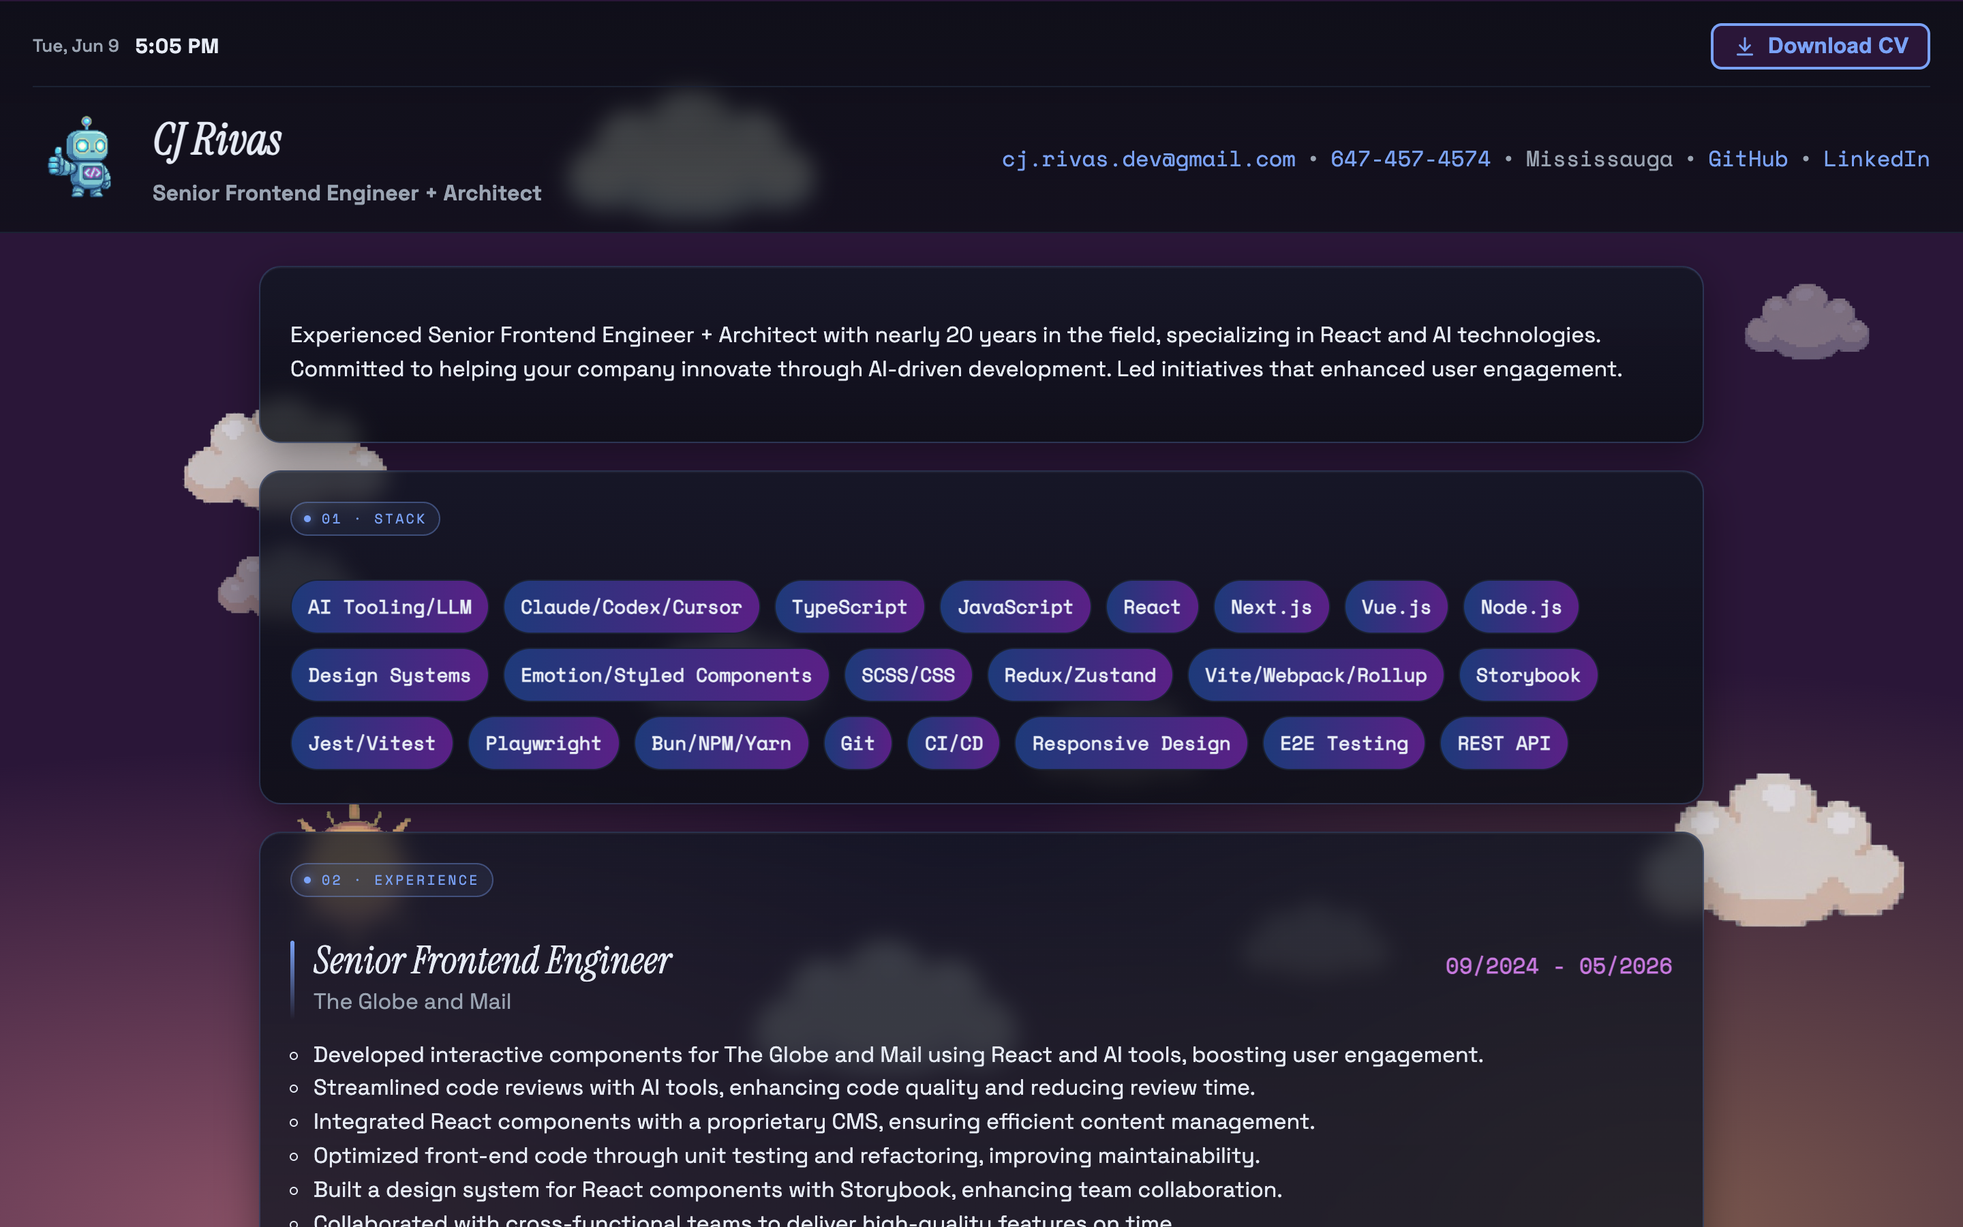
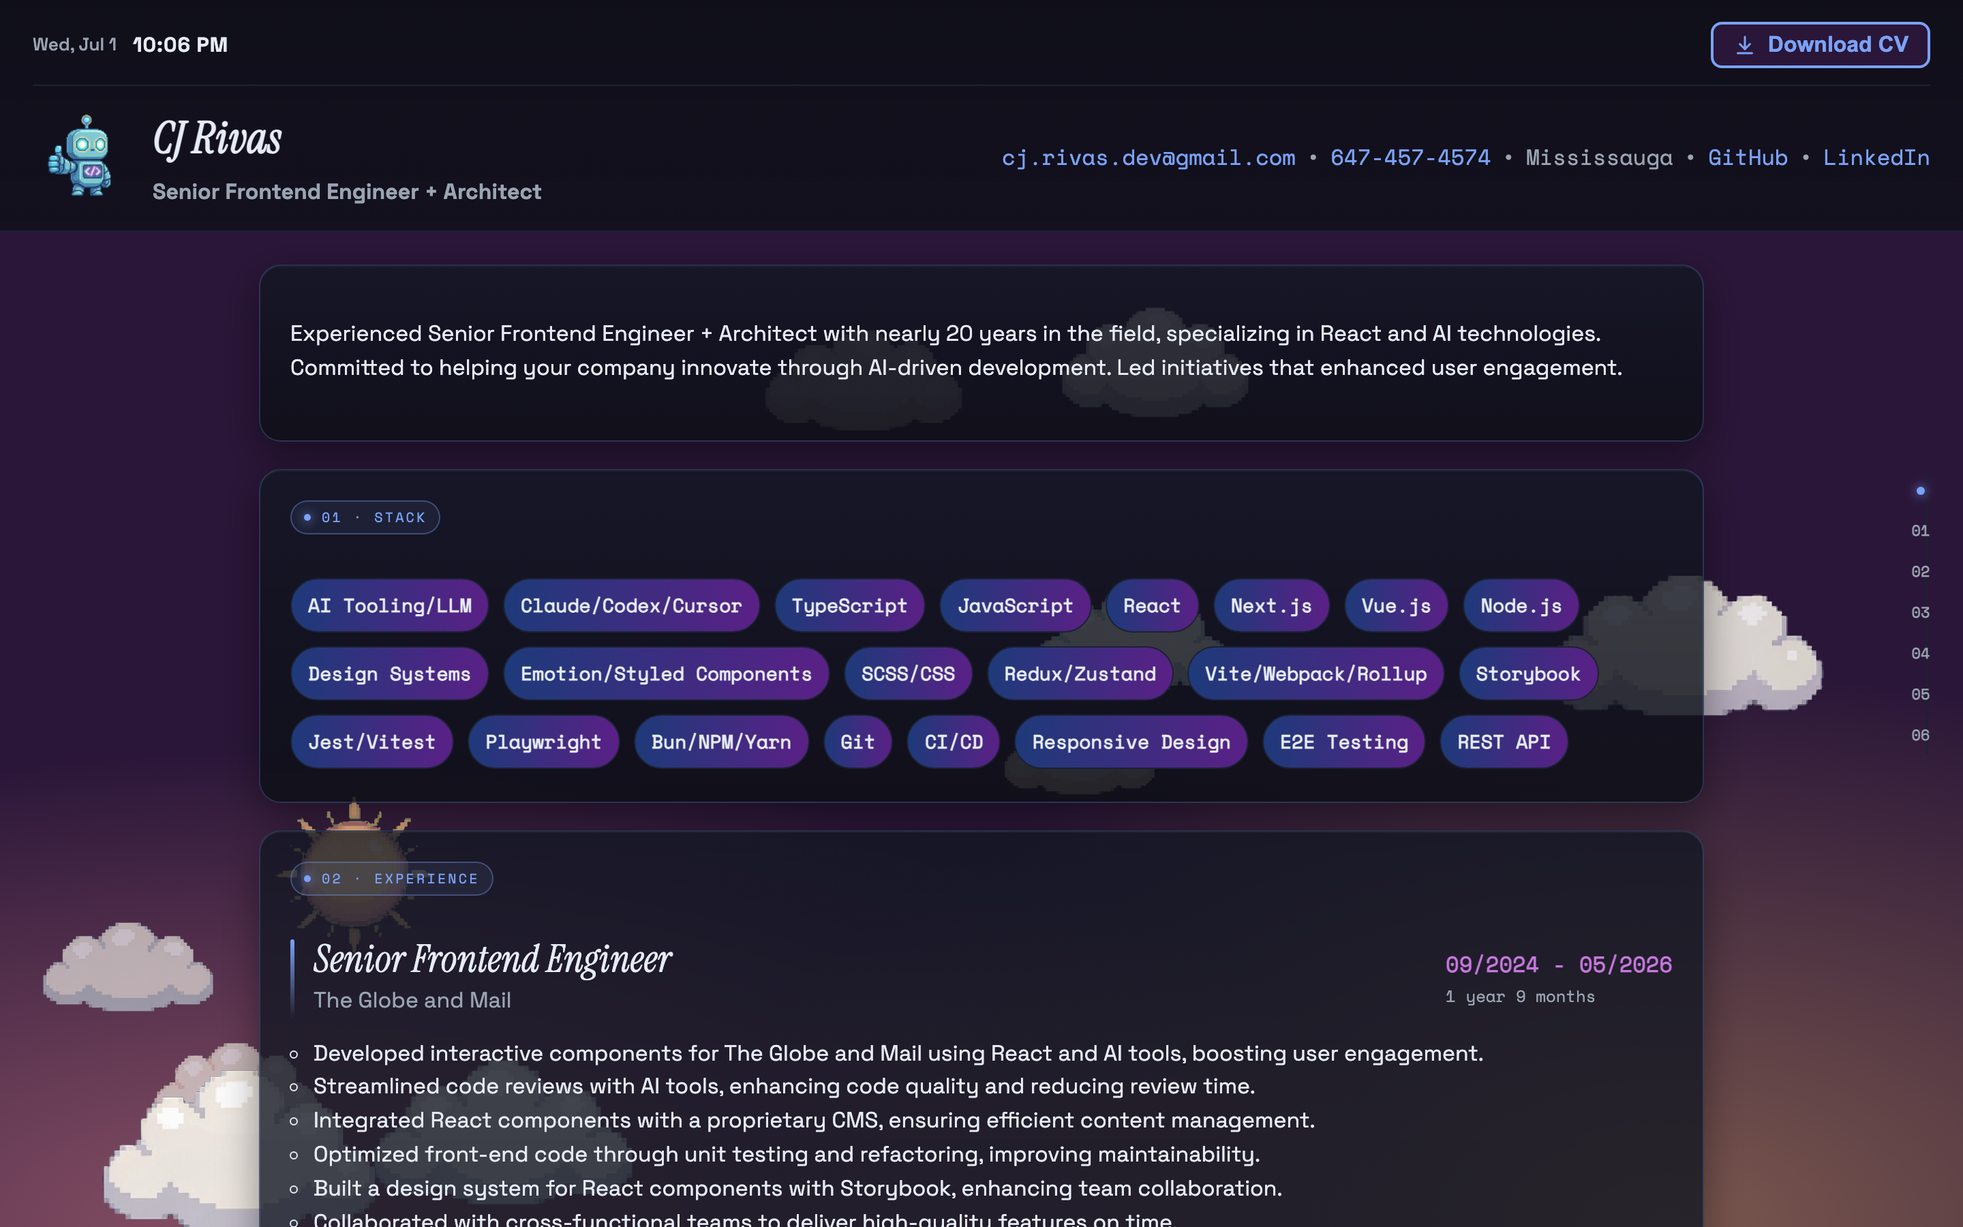
CJR: refresh `README.md` and screenshots for current architecture
- document `SectionNav`, `Selected Work` showcase, and `/edit-resume` editor with variations
- rewrite PDF export section for `@react-pdf/renderer` pipeline (was `html2pdf.js`)
- add `@dnd-kit`, `@fontsource`, `@react-pdf/renderer` rows to tech stack table
- redraw `src/` tree with `edit/`, `pdf/`, `state/useVariations.ts`, new `utils/` entries
- drop stale `skillDescriptions.ts` references; note `skill_descriptions` array in `resume.json`
- add `@edit/*` and `@pdf/*` path aliases; add `/edit-resume` demo URL
- correct pre-commit hook steps to `prettier:check` → `ts:check` → `lint` → `test`
- correct `system-check` order to `prettier:check` → `ts:check` → `lint` → `test` → `build`
- regenerate all `docs/screenshots/*.png` against current build
- add `docs/screenshots/edit-resume.png` capture of the editor

diff --git a/README.md b/README.md
@@ -1,6 +1,6 @@
 # CJ Rivas — Portfolio
 
-> A single-page resume & portfolio for a Senior Frontend Engineer + Architect. Built as a showcase of modern React patterns, with a living, time-of-day sky and a live weather overlay driven by the visitor's location.
+> A single-page resume & portfolio for a Senior Frontend Engineer + Architect. Built as a showcase of modern React patterns, with a living, time-of-day sky, a live weather overlay driven by the visitor's location, a native PDF export pipeline, and a full drag-and-drop resume editor with saved variations.
 
 ![CJ Rivas portfolio at day](docs/screenshots/hero-day.png)
 
@@ -44,15 +44,36 @@ A live indicator shows the current local date, time, weather emoji, and temperat
 - The `AppHeader` uses `IntersectionObserver` on a sentinel `<div>` to detect when it sticks to the top of the viewport, then `data-stuck` triggers a compact layout (smaller logo + title, tightened spacing).
 - Clock ticks once per minute via `setInterval`, weather fetched once per session.
 
+### Section navigation
+
+A floating nav tracks scroll position via `IntersectionObserver` and highlights the section currently in view, with numbered chips mirroring the sections mounted in `App.tsx`. Clicking a link smooth-scrolls to the section (instant if `prefers-reduced-motion` is set).
+
+### Selected Work showcase
+
+A grid of project cards (browser-chrome framing, screenshot, domain badge, role, period, description, tag pills) linking out to live projects — sourced from the `showcase` array in `resume.json`.
+
 ### One-click PDF export
 
-A "Download CV" button rasterizes the resume to a single, full-height PDF — using `html2pdf.js` with a custom `waitForAssets` utility that resolves once every image and webfont is decoded, so the PDF never captures half-loaded state.
+A "Download CV" button generates a single-page PDF entirely client-side using [`@react-pdf/renderer`](https://react-pdf.org): `src/pdf/ResumePDF.tsx` mirrors the on-page layout with a dedicated set of design tokens (`src/pdf/tokens.ts`), and `src/pdf/fonts.ts` embeds Source Serif 4 (regular/italic/semibold/bold) via `Font.register` so the PDF's typography matches the page. `@react-pdf/renderer` and its `fontkit` dependency are dynamically imported (`import("@pdf")`) so they never ship in the main bundle — only users who click download (or generate a PDF from the editor) pay for that chunk.
+
+### Resume editor & variations
+
+![resume editor](docs/screenshots/edit-resume.png)
+
+Visiting `/edit-resume` mounts the same component tree in an editing context (`EditProvider`) instead of the read-only page:
+
+- Every text field becomes an inline, auto-growing `<input>`/`<textarea>` (`EditableText`) that writes straight to the Zustand store via a generic `setPath(path, value)`.
+- Lists — skills, achievements, showcase items, tags — get add/remove buttons and drag-to-reorder handles powered by `@dnd-kit`. The drag machinery is lazy-loaded (`SortableListImpl`) so the public-facing page never downloads it.
+- A **Variations** side panel lets you fork the base resume into named, independently-editable copies persisted to `localStorage` (Zustand `persist` middleware, `src/state/useVariations.ts`). Switch between "Base (original)" and any saved variation, rename or delete variations, and an unsaved-changes guard (`beforeunload`) warns before you navigate away with a dirty edit.
+- "Generate PDF" produces a PDF scoped to whichever variation is currently active, with the filename slugified from the variation's name (e.g. `cj_rivas_backend_leaning.pdf`).
 
 ### Data-driven content
 
-The entire resume — name, contact, summary, skills, work history, awards, languages, education — is hydrated from a single `src/data/resume.json` file at module load. Adding a new section is: extend the JSON → add a type → extend the Zustand store → mount a component. No mutations, no async fetch, no setters.
+The entire resume — name, contact, summary, skills (+ per-skill hover text), work history, awards, languages, education, showcase — is hydrated from a single `src/data/resume.json` file at module load and normalized through `normalizeData()` (which migrates older/legacy data shapes, e.g. a pre-array `contact` object, so saved variations never break after a schema change). Adding a new section is: extend the JSON → add a type → extend the Zustand store → mount a component.
 
-Hover tooltips on each Technical Skills pill are sourced from `src/data/skillDescriptions.ts` — a separate keyed lookup so the resume JSON stays focused on the skill list itself.
+Hover tooltips on each Technical Skills pill come from the `skill_descriptions` array in `resume.json`, kept in parallel with `technical_skills` (and reordered/edited together in the editor).
+
+Each work experience entry also shows a computed, human-readable duration (e.g. "1 year 9 months") derived from its `period` string by `src/utils/experienceDuration.ts`.
 
 ---
 
@@ -69,20 +90,22 @@ Hover tooltips on each Technical Skills pill are sourced from `src/data/skillDes
 
 ## Tech stack
 
-| Layer               | Choice                             | Why                                                                        |
-| ------------------- | ---------------------------------- | -------------------------------------------------------------------------- |
-| **Build / dev**     | Vite 8                             | Instant HMR, native ESM, fast cold starts                                  |
-| **UI framework**    | React 19 + TypeScript 6            | `useId`, automatic batching, modern types                                  |
-| **State**           | Zustand 5                          | Tiny, no boilerplate, store seeded from JSON at module load                |
-| **Styling**         | CSS Modules + design tokens        | Scoped class names, no runtime, readable in DevTools (`Header_logo__a3f2`) |
-| **PDF export**      | `html2pdf.js`                      | DOM → canvas → jsPDF pipeline; runs entirely client-side                   |
-| **Weather data**    | Open-Meteo (free, no key)          | WMO weather codes via `current_weather`                                    |
-| **Testing**         | Vitest 4 + Testing Library + jsdom | Component + util tests colocated next to source                            |
-| **Lint / format**   | ESLint 9 (flat config) + Prettier  | `@trivago/prettier-plugin-sort-imports` enforces import groups             |
-| **Type checking**   | `tsc --noEmit`                     | Runs on every commit                                                       |
-| **Git hooks**       | Husky                              | `pre-commit`: ts:check → prettier → lint → build                           |
-| **Package manager** | Bun                                | `packageManager` field pinned in `package.json`                            |
-| **Deploy**          | Netlify                            | Project: [`codebend3r`](https://app.netlify.com/projects/codebend3r)       |
+| Layer               | Choice                                            | Why                                                                                               |
+| ------------------- | ------------------------------------------------- | ------------------------------------------------------------------------------------------------- |
+| **Build / dev**     | Vite 8                                            | Instant HMR, native ESM, fast cold starts                                                         |
+| **UI framework**    | React 19 + TypeScript 6                           | `useId`, automatic batching, modern types                                                         |
+| **State**           | Zustand 5                                         | Tiny, no boilerplate; resume store seeded from JSON, variations store persisted to `localStorage` |
+| **Styling**         | CSS Modules + design tokens                       | Scoped class names, no runtime, readable in DevTools (`Header_logo__a3f2`)                        |
+| **PDF export**      | `@react-pdf/renderer`                             | Declarative React → PDF, embedded webfonts, runs entirely client-side, lazy-loaded chunk          |
+| **Drag & drop**     | `@dnd-kit/core` + `sortable` + `utilities`        | Accessible reordering in the resume editor; lazy-loaded, absent from the public page              |
+| **Webfonts**        | `@fontsource/inter`, `@fontsource/source-serif-4` | Self-hosted, no external font requests; Source Serif 4 double-embedded for PDF output             |
+| **Weather data**    | Open-Meteo (free, no key)                         | WMO weather codes via `current_weather`                                                           |
+| **Testing**         | Vitest 4 + Testing Library + jsdom                | Component + util tests colocated next to source                                                   |
+| **Lint / format**   | ESLint 9 (flat config) + Prettier                 | `@trivago/prettier-plugin-sort-imports` enforces import groups                                    |
+| **Type checking**   | `tsc --noEmit`                                    | Runs on every commit                                                                              |
+| **Git hooks**       | Husky                                             | `pre-commit`: prettier check → ts:check → lint → test                                             |
+| **Package manager** | Bun                                               | `packageManager` field pinned in `package.json`                                                   |
+| **Deploy**          | Netlify                                           | Project: [`codebend3r`](https://app.netlify.com/projects/codebend3r)                              |
 
 ---
 
@@ -90,41 +113,61 @@ Hover tooltips on each Technical Skills pill are sourced from `src/data/skillDes
 
 ```
 src/
-├── App.tsx                  ← Composes Sky + Weather + AppHeader + sections; owns PDF download flow
-├── Entry.tsx                ← React root, mounts global styles + applies sky palette
-├── components/              ← Flat directory — each component is a .tsx + .module.css + .test.tsx triple
+├── App.tsx                  ← Composes Sky + Weather + SectionNav + AppHeader + read-only sections
+├── Entry.tsx                ← React root; routes "/edit-resume" → <EditResumeApp />, else <App />
+├── components/              ← Flat directory — each component is a .tsx + .module.css (+ .test.tsx) triple
 │   ├── AppHeader.tsx        ← Sticky-on-scroll wrapper; mounts <Header /> + <WeatherClock /> + Download CV button
 │   ├── Header.tsx           ← Identity + contact line (email, phone, location, GitHub, LinkedIn)
+│   ├── SectionNav.tsx       ← Floating nav; highlights active section via IntersectionObserver
 │   ├── Sky.tsx              ← Time-of-day clouds, sun, moon (PNG sprite); swaps to <Starfield /> at night
 │   ├── Starfield.tsx        ← Parallax 3-layer night sky (160 + 80 + 30 stars)
 │   ├── Weather.tsx          ← Rain (140 drops) / snow (90 flakes) overlay; pure CSS animation
 │   ├── WeatherClock.tsx     ← Live clock + weather emoji + temperature (ticks every minute)
 │   ├── Section.tsx          ← Shared <section> + <h2> wrapper used by all content sections
-│   ├── Summary.tsx  TechnicalSkills.tsx  WorkExperience.tsx
+│   ├── Summary.tsx  TechnicalSkills.tsx  WorkExperience.tsx  Showcase.tsx
 │   ├── Awards.tsx  Languages.tsx  Education.tsx  Footer.tsx
+├── edit/                    ← Resume editor, mounted only at /edit-resume
+│   ├── EditResumeApp.tsx    ← Renders the resume tree inside EditProvider; owns variation/session state
+│   ├── EditContext.tsx      ← `editing` flag + `markDirty()`, consumed by every section component
+│   ├── EditableText.tsx     ← Inline auto-growing input/textarea bound to a store path
+│   ├── VariationsPanel.tsx  ← Create/rename/delete/select variations; Save + Generate PDF actions
+│   ├── RenameModal.tsx      ← Portal-rendered modal for naming/renaming a variation
+│   ├── SortableList.tsx     ← Public wrapper; lazy-loads dnd-kit only when editing
+│   ├── SortableListImpl.tsx ← Actual @dnd-kit sortable context (lazy chunk)
+│   └── sortableContext.ts   ← Context bridging the lazy dnd-kit implementation into SortableItem
+├── pdf/                     ← @react-pdf/renderer document, lazy-loaded via `import("@pdf")`
+│   ├── generatePdf.tsx      ← generateResumePdf(data) → Blob; downloadBlob() triggers the browser download
+│   ├── ResumePDF.tsx        ← React-PDF document mirroring the on-page resume layout
+│   ├── fonts.ts             ← Registers Source Serif 4 weights/styles for @react-pdf/renderer
+│   ├── styles.ts            ← @react-pdf/renderer StyleSheet definitions
+│   ├── tokens.ts             ← PDF-specific design tokens (fonts, spacing, colors)
+│   └── index.ts              ← Barrel re-exporting generatePdf's public API
 ├── data/
-│   ├── resume.json          ← Single source of truth for resume content
-│   ├── skillDescriptions.ts ← Per-skill tooltip copy keyed by skill name
+│   ├── resume.json          ← Single source of truth for resume content (incl. showcase, skill_descriptions)
 │   └── CJ Rivas - Senior Frontend Engineer.pdf  ← Pre-rendered CV (also produced live via Download CV)
-├── state/useStore.ts        ← Zustand store, seeded from resume.json at module init
+├── state/
+│   ├── useStore.ts          ← Zustand store, seeded from resume.json; setPath/reorder + add/remove actions
+│   └── useVariations.ts     ← Zustand store (persisted to localStorage) for named resume variations
 ├── styles/
 │   ├── tokens.css           ← :root CSS custom properties (--bg, --accent, --cloud-drift, …)
-│   ├── keyframes.css        ← cloudDrift, rainFall, snowFall, glowPulse
-│   └── global.css           ← resets + @media print rules for PDF export
-├── sky.ts                   ← getCurrentSky(), applySky(), URL override parsing
-├── weather.ts               ← Open-Meteo fetcher, WMO code mapping, URL override parsing
+│   ├── keyframes.css         ← cloudDrift, rainFall, snowFall, glowPulse
+│   └── global.css            ← resets + @media print rules
+├── sky.ts                    ← getCurrentSky(), applySky(), URL override parsing
+├── weather.ts                ← Open-Meteo fetcher, WMO code mapping, URL override parsing
 ├── utils/
-│   ├── dom-utils.ts         ← DOM helpers
-│   └── print-utils.ts       ← waitForAssets() — gates PDF capture on image/font load
-├── types/global.d.ts        ← Ambient types: Experience, Award, Language, Education, Data
-└── test/                    ← Vitest setup
+│   ├── dom-utils.ts           ← DOM helpers
+│   ├── normalizeData.ts       ← Migrates legacy resume/variation data shapes on load
+│   ├── setPath.ts              ← Generic immutable nested-path update used by the editor
+│   └── experienceDuration.ts   ← Formats a work-experience period into "N years M months"
+├── types/global.d.ts          ← Ambient types: Data, Experience, Award, Language, Education, Showcase, Variation, ResumeStore
+└── test/                       ← Vitest setup
 ```
 
 ### Path aliases
 
 Configured in **both** `vite.config.ts` (runtime) and `tsconfig.json` (types) — they must stay in sync.
 
-`@App`, `@app`, `@assets/*`, `@components/*`, `@data/*`, `@sky`, `@state/*`, `@styles/*`, `@utils/*`, `@weather`
+`@App`, `@app`, `@assets/*`, `@components/*`, `@data/*`, `@edit/*`, `@pdf/*`, `@sky`, `@state/*`, `@styles/*`, `@utils/*`, `@weather`
 
 ---
 
@@ -144,6 +187,7 @@ bun dev          # http://localhost:4242
 | `http://localhost:4242/?weather=rain`           | Force rain overlay          |
 | `http://localhost:4242/?weather=snow`           | Force snow overlay          |
 | `http://localhost:4242/?sky=night&weather=snow` | Combine: snowy night        |
+| `http://localhost:4242/edit-resume`             | Open the resume editor      |
 
 ---
 
@@ -158,7 +202,7 @@ bun dev          # http://localhost:4242
 | `bun prettier` / `bun prettier:check`               | Prettier write / check                                                                  |
 | `bun ts:check`                                      | TypeScript type check (no emit)                                                         |
 | `bun test` / `bun test:watch` / `bun test:coverage` | Vitest                                                                                  |
-| `bun system-check`                                  | `prettier:check` → `lint` → `test` → `build`                                            |
+| `bun system-check`                                  | `prettier:check` → `ts:check` → `lint` → `test` → `build`                               |
 
 ---
 
@@ -166,7 +210,7 @@ bun dev          # http://localhost:4242
 
 Husky runs on every commit and push:
 
-- **pre-commit** — `ts:check` → `prettier:check` → `lint` → `test` → `build`. The commit fails if any step fails. Because `prettier:check` does not write, you need to run `bun prettier` yourself before committing if formatting is off.
+- **pre-commit** — `prettier:check` → `ts:check` → `lint` → `test`. The commit fails if any step fails. Because `prettier:check` does not write, run `bun prettier` yourself first if formatting is off.
 - **pre-push** — `bun run build`, then prints the last 10 commits as a sanity check. Push fails if the build fails, so deps must be installed (`bun install`) before pushing.
 
 ---
@@ -174,6 +218,6 @@ Husky runs on every commit and push:
 ## Code style
 
 - No semicolons, double quotes, 2-space indent, `printWidth: 80`, `trailingComma: "es5"`.
-- Import order is enforced by `@trivago/prettier-plugin-sort-imports` with custom groups (react first → third-party → `@components`/`@data`/`@state`/`@styles` → relative). Groups are blank-line separated.
+- Import order is enforced by `@trivago/prettier-plugin-sort-imports` with custom groups (react first → third-party → `@components`/`@data`/`@edit`/`@pdf`/`@state`/`@styles` → relative). Groups are blank-line separated.
 - ESLint enforces `@typescript-eslint/consistent-type-imports` — type-only imports must use `import type`.
 - `_`-prefixed unused vars are ignored.
